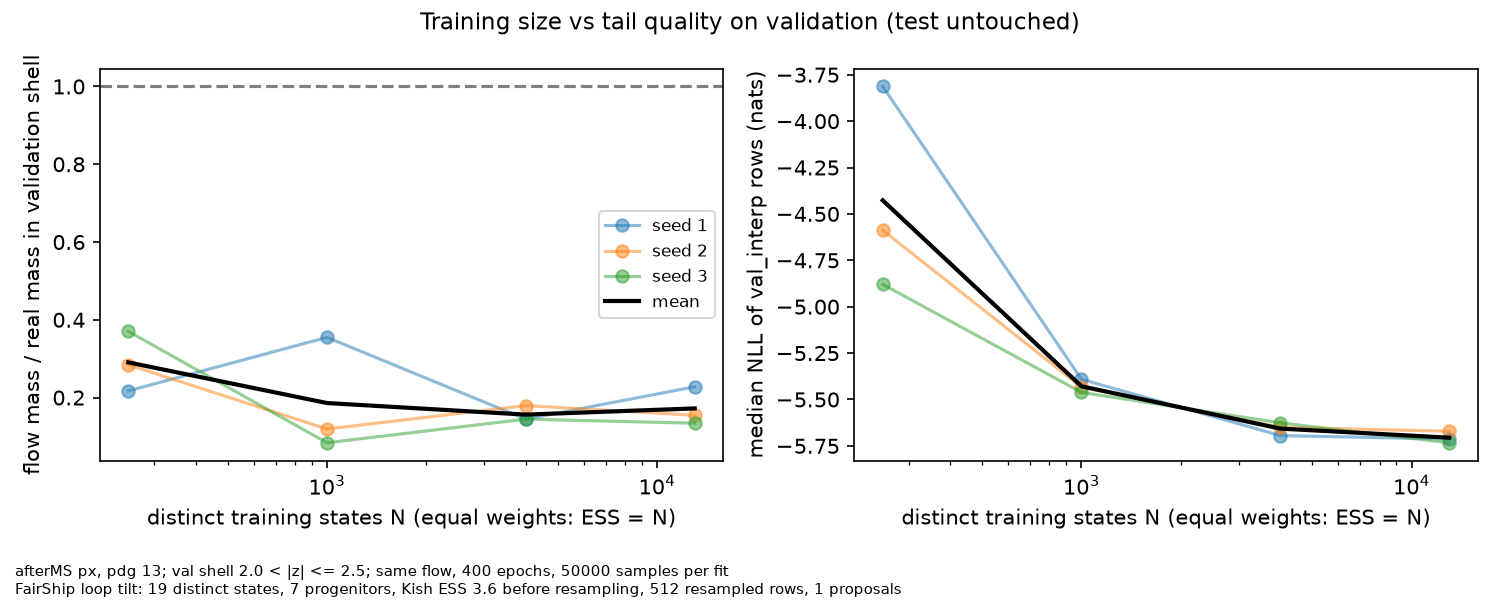
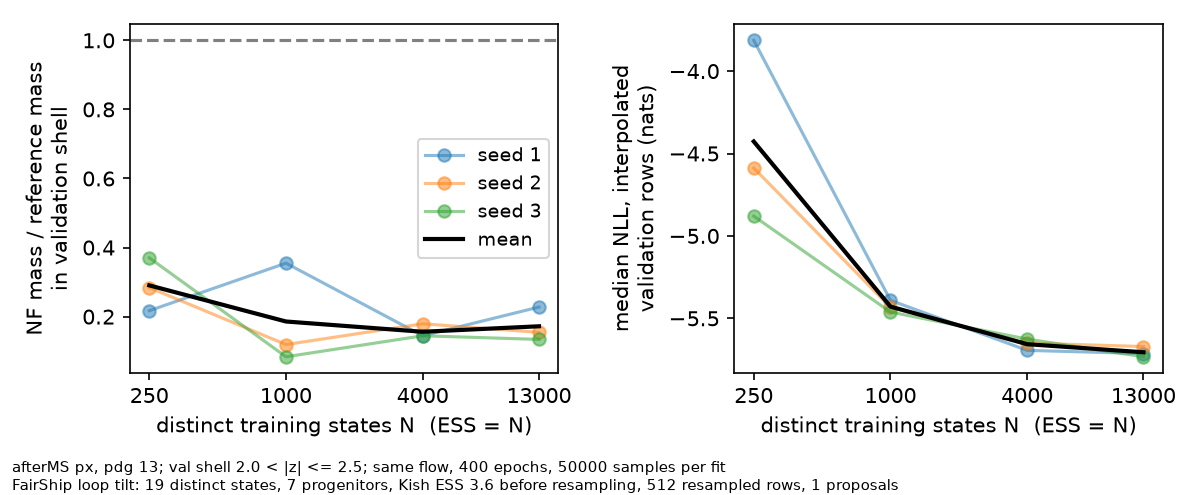
feat(scripts): size figures 2-4 for a 16:9 slide, label regions on the axis, mark the open band
fig2 drops its footnote unless --loop-delivery is given and labels the tested sizes; fig3 names train/val/test above
the axis and boxes the separate region request; fig4 uses a log axis and marks the last band as open. Same data, PNGs
regenerated from docs/meeting_1121.

diff --git a/scripts/fig2_learning_curve.py b/scripts/fig2_learning_curve.py
@@ -7,6 +7,8 @@ import json
 from pathlib import Path
 
 import matplotlib.pyplot as plt
+
+plt.rcParams.update({"font.size": 10, "axes.titlesize": 10, "legend.fontsize": 9})  # sized for a 16:9 slide
 import numpy as np
 
 ap = argparse.ArgumentParser()
@@ -17,26 +19,27 @@ a = ap.parse_args()
 res = json.loads((a.result / "learning_curve.json").read_text())
 rows = res["rows"]
 sizes = sorted({r["n_train_distinct"] for r in rows})
-fig, axes = plt.subplots(1, 2, figsize=(10, 4))
-for ax, key, lab in ((axes[0], "val_mass_ratio", "flow mass / real mass in validation shell"),
-                     (axes[1], "val_interp_nll_median", "median NLL of val_interp rows (nats)")):
+fig, axes = plt.subplots(1, 2, figsize=(8, 3.3))
+for ax, key, lab in ((axes[0], "val_mass_ratio", "NF mass / reference mass\nin validation shell"),
+                     (axes[1], "val_interp_nll_median", "median NLL, interpolated\nvalidation rows (nats)")):
     for sd in sorted({r["seed"] for r in rows}):
         rr = sorted((r for r in rows if r["seed"] == sd), key=lambda r: r["n_train_distinct"])
         ax.plot([r["n_train_distinct"] for r in rr], [r[key] for r in rr], "o-", alpha=0.5, label=f"seed {sd}")
     m = [np.mean([r[key] for r in rows if r["n_train_distinct"] == n]) for n in sizes]
     ax.plot(sizes, m, "k-", lw=2, label="mean")
     ax.set_xscale("log")
-    ax.set_xlabel("distinct training states N (equal weights: ESS = N)")
+    ax.set_xticks(sizes, [str(n) for n in sizes])
+    ax.minorticks_off()
+    ax.set_xlabel("distinct training states N  (ESS = N)")
     ax.set_ylabel(lab)
 axes[0].axhline(1, color="grey", ls="--")
-axes[0].legend(fontsize=8)
-note = f"afterMS px, pdg {res['data']['pdg']}; val shell {res['rule']['val']}; same flow, {res['epochs']} epochs, " \
+axes[0].legend()
+note = "" if not a.loop_delivery else f"afterMS px, pdg {res['data']['pdg']}; val shell {res['rule']['val']}; same flow, {res['epochs']} epochs, " \
        f"{rows[0]['n_gen']} samples per fit"
 if a.loop_delivery:
     g = json.loads((a.loop_delivery / "manifest.json").read_text())["generator"]
     note += f"\nFairShip loop tilt: {g['rows']} distinct states, {g.get('distinct_progenitors', '?')} progenitors, " \
             f"Kish ESS {g['tilt_kish_ess']:.1f} before resampling, {g['config']['n_train']} resampled rows, {g['n']} proposals"
-fig.suptitle("Training size vs tail quality on validation (test untouched)", fontsize=11)
 fig.text(0.01, 0.01, note, fontsize=7)
-fig.tight_layout(rect=(0, 0.08, 1, 1))
+fig.tight_layout(rect=(0, 0.07 if note else 0, 1, 1))
 fig.savefig(a.out, dpi=150)

diff --git a/scripts/fig3_tail_histogram.py b/scripts/fig3_tail_histogram.py
@@ -8,6 +8,8 @@ import json
 from pathlib import Path
 
 import matplotlib.pyplot as plt
+
+plt.rcParams.update({"font.size": 10, "axes.titlesize": 10, "legend.fontsize": 9})  # sized for a 16:9 slide
 import numpy as np
 
 ap = argparse.ArgumentParser()
@@ -20,11 +22,15 @@ ref, gen = s["px_ref"], s["px_gen"]
 n_gen_total = res["generated"]["total_before_filter"]
 lo, hi = np.quantile(ref, [0.0005, 0.9995])
 bins = np.linspace(lo, hi, 121)
-fig, ax = plt.subplots(figsize=(8, 4.5))
+fig, ax = plt.subplots(figsize=(8, 3.7))
 for (k0, k1), c, name in (((2.5, 99), "#f4cccc", "test |z|>2.5"), ((2.0, 2.5), "#fff2cc", "validation 2<|z|<=2.5")):
-    ax.axvspan(max(lo, med - k1 * sig), med - k0 * sig, color=c, label=name)
+    ax.axvspan(max(lo, med - k1 * sig), med - k0 * sig, color=c)
     ax.axvspan(med + k0 * sig, min(hi, med + k1 * sig), color=c)
-ax.axvspan(med - 2 * sig, med + 2 * sig, color="#d9ead3", label="train centre |z|<=2")
+ax.axvspan(med - 2 * sig, med + 2 * sig, color="#d9ead3")
+tr = ax.get_xaxis_transform()
+for xc, name in ((med, "train\n|z| <= 2"), (med - 2.25 * sig, "val"), (med + 2.25 * sig, "val"),
+                 ((lo + med - 2.5 * sig) / 2, "test"), ((hi + med + 2.5 * sig) / 2, "test |z| > 2.5")):
+    ax.text(xc, 1.01, name, transform=tr, ha="center", va="bottom", fontsize=10, weight="bold")
 ax.hist(ref, bins, weights=np.full(len(ref), 1 / len(ref)), histtype="step", color="k", lw=1.5,
         label=f"reference (all {len(ref)} rows)")
 ax.hist(gen, bins, weights=np.full(len(gen), 1 / n_gen_total), histtype="step", color="C0", lw=1.5,
@@ -33,8 +39,9 @@ ax.set_yscale("log")
 ax.set_xlabel("px (GeV/c), afterMS, pdg %d" % res["data"]["pdg"])
 ax.set_ylabel("fraction of total per bin")
 r = res["region_request"]
-ax.set_title(f"Trained on the centre only. Request in test region: {r['requested']} asked, {r['generated']} generated, "
-             f"{r['accepted']} accepted", fontsize=9)
-ax.legend(fontsize=7, loc="upper right")
-fig.tight_layout()
+ax.text(0.99, 0.62, f"separate request in test region:\n{r['requested']} asked, {r['generated']} generated,\n"
+        f"{r['accepted']} accepted", transform=ax.transAxes, ha="right", va="top", fontsize=9,
+        bbox=dict(fc="white", ec="#999"))
+ax.legend(loc="upper right", fontsize=8.5)
+fig.tight_layout(pad=0.3)
 fig.savefig(a.out, dpi=150)

diff --git a/scripts/fig4_mass_vs_distance.py b/scripts/fig4_mass_vs_distance.py
@@ -9,12 +9,14 @@ from pathlib import Path
 
 import matplotlib.pyplot as plt
 
+plt.rcParams.update({"font.size": 10, "axes.titlesize": 10, "legend.fontsize": 9})  # sized for a 16:9 slide
+
 ap = argparse.ArgumentParser()
 ap.add_argument("result", type=Path)
 ap.add_argument("--out", required=True, type=Path)
 a = ap.parse_args()
 res = json.loads((a.result / "result.json").read_text())
-fig, axes = plt.subplots(1, 2, figsize=(10, 4), sharey=True)
+fig, axes = plt.subplots(1, 2, figsize=(8, 3.4), sharey=True)
 for ax, key, lab in ((axes[0], "d_train", "distance to 5th nearest train row"),
                      (axes[1], "d_val", "distance to 5th nearest validation-shell row")):
     bands = res["bands"][key]
@@ -24,14 +26,14 @@ for ax, key, lab in ((axes[0], "d_train", "distance to 5th nearest train row"),
     ax.axhline(1, color="grey", ls="--")
     for i, b in enumerate(bands):
         ax.text(i, ratio[i] * 1.3 if ratio[i] > 0 else 1e-4, f"ref {b['ref']}\nNF {b['gen']}\n{ratio[i]:.3f}",
-                ha="center", va="bottom", fontsize=7)
-    ax.set_xticks(list(x), [f"{b['lo']:.2f}-{b['hi']:.2f}" if b["hi"] != float("inf") else f">{b['lo']:.2f}" for b in bands],
-                  fontsize=7)
-    ax.set_xlabel(lab + " (train-standardised)")
+                ha="center", va="bottom", fontsize=8)
+    ax.set_xticks(list(x), [f"{b['lo']:.2f}-{b['hi']:.2f}" if b["hi"] != float("inf") else f">{b['lo']:.2f}\n(open)" for b in bands],
+                  fontsize=8)
+    ax.set_xlabel(lab)
 axes[0].set_yscale("log")
 axes[0].set_ylim(1e-4, 3)
-axes[0].set_ylabel("(NF in band / NF total) / (ref in band / ref total)")
-fig.suptitle(f"Test region |z(px)|>2.5: NF recovers mass where ratio = 1. Totals: ref {res['bands']['d_train'][0]['ref_total']}, "
-             f"NF {res['bands']['d_train'][0]['gen_total']} (before filter)", fontsize=9)
+axes[0].set_ylabel("(NF band / NF total) /\n(ref band / ref total)")
+fig.suptitle(f"test region |z(px)| > 2.5, totals: reference {res['bands']['d_train'][0]['ref_total']}, "
+             f"NF {res['bands']['d_train'][0]['gen_total']} before any filter", fontsize=10)
 fig.tight_layout()
 fig.savefig(a.out, dpi=150)
